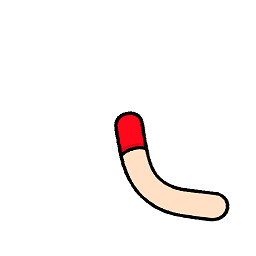
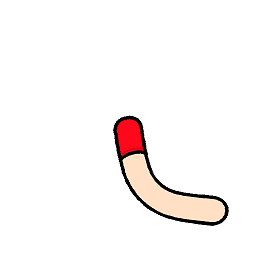
Smoothed out player shoulder locations

Changed region(s): [[0.4375, 0.4375, 0.9062, 0.9062]]

diff --git a/offworld/src/com/bitwaffle/offworld/entities/player/PlayerBodyAnimation.java b/offworld/src/com/bitwaffle/offworld/entities/player/PlayerBodyAnimation.java
@@ -4,52 +4,51 @@ import com.badlogic.gdx.math.Vector2;
 import com.bitwaffle.guts.graphics.animation.Animation;
 
 public class PlayerBodyAnimation extends Animation {
-	// TODO maybe only catch these on keyframes and then interpolate the values
 	/** 
 	 * Location of the right arm's shoulder on each frame,
 	 * in world coordinates. The location corresponds to the distance
 	 * from the middle of the player's body the shoulder is at.
 	 */
 	private static final float[][] rShoulderLocations = {
-			{-0.21301842f, 0.8287382f},
-			{-0.21301842f, 0.82005787f},
-			{-0.21301842f, 0.81137705f},
-			{-0.21301842f, 0.79401636f},
-			{-0.21301842f, 0.79401636f},
-			{-0.20433784f, 0.8026967f},
-			{-0.16961563f, 0.8287382f},
-			{-0.16961563f, 0.8287382f},
-			{-0.16961563f, 0.82005787f},
-			{-0.16961563f, 0.82005787f},
-			{-0.18697667f, 0.83741903f},
-			{-0.20433784f, 0.8287382f},
-			{-0.21301842f, 0.83741903f},
-			{-0.21301842f, 0.8287382f},
-			{-0.21301842f, 0.81137705f},
-			{-0.19565725f, 0.8026967f},
-			{-0.18697667f, 0.79401636f},
-			{-0.19565725f, 0.79401636f},
-			{-0.19565725f, 0.78533554f},
-			{-0.19565725f, 0.7679744f},
-			{-0.18697667f, 0.7766552f},
-			{-0.18697667f, 0.8026967f},
-			{-0.17829621f, 0.8026967f},
-			{-0.16961563f, 0.83741903f},
-			{-0.16961563f, 0.8460994f},
-			{-0.16961563f, 0.83741903f},
-			{-0.15225458f, 0.83741903f},
-			{-0.16093516f, 0.83741903f},
-			{-0.15225458f, 0.83741903f},
-			{-0.17829621f, 0.83741903f},
-			{-0.18697667f, 0.83741903f},
-			{-0.21301842f, 0.82005787f}	
+			{-0.22111511f, 0.7997613f}, // 0
+			{-0.21965f, 0.793903f},
+			{-0.218185f, 0.788045f},
+			{-0.21672f, 0.782187f},
+			{-0.21525574f, 0.7763281f}, // 4
+			{-0.206468f, 0.783651f},
+			{-0.197681f, 0.790974f},
+			{-0.188894f, 0.798297f},
+			{-0.18010712f, 0.80561924f}, // 8
+			{-0.190359f, 0.811478f},
+			{-0.200611f, 0.817336f},
+			{-0.210863f, 0.823194f},
+			{-0.22111511f, 0.829052f}, // 12
+			{-0.216722f, 0.82173f},
+			{-0.212328f, 0.814407f},
+			{-0.207934f, 0.807084f},
+			{-0.2035408f, 0.7997613f}, // 16
+			{-0.200612f, 0.792439f},
+			{-0.197683f, 0.785116f},
+			{-0.194754f, 0.777793f},
+			{-0.19182587f, 0.77047014f}, // 20
+			{-0.187432f, 0.789509f},
+			{-0.183039f, 0.808548f},
+			{-0.178645f, 0.827587f},
+			{-0.17425156f, 0.84662676f}, // 24
+			{-0.171322f, 0.843698f},
+			{-0.168392f, 0.840769f},
+			{-0.165462f, 0.83784f},
+			{-0.1625328f, 0.8349104f}, // 28
+			{-0.174249f, 0.829052f},
+			{-0.185966f, 0.823194f},
+			{-0.20940018f, 0.81147766f} // 31
 	};
 	
 	/** Offset of gun from right arm's shoulder */
 	private static final Vector2 gunOffset = new Vector2(0.85f, -0.5f);
 	
 	/** Offset of left arm from right arm's shoulder*/
-	private static final Vector2 lArmOffset = new Vector2(0.1f, -0.05f);
+	private static final Vector2 lArmOffset = new Vector2(0.02f, 0.04f);
 	
 	/**
 	 * @param animation Source animation

diff --git a/offworld/src/com/bitwaffle/offworld/entities/player/Player.java b/offworld/src/com/bitwaffle/offworld/entities/player/Player.java
@@ -51,7 +51,13 @@ public class Player extends BoxEntity implements FirearmHolder{
 	private boolean movingRight = false, facingRight = false;
 	
 	/** Animation for player's legs */
-	public PlayerBodyAnimation bodyAnimation;
+	protected PlayerBodyAnimation bodyAnimation;
+	
+	/** How fast the animation is played, depending on the player's linear velocity. Higher number means slower animation. */
+	private float animationSpeed = 10.0f;
+	
+	/** How fast the player has to be moving for the animation to be stepped */
+	private float minAnimationVelocity = 0.5f;
 	
 	/**
 	 * Noargs constructor ONLY to be used with serialization!!!
@@ -102,9 +108,8 @@ public class Player extends BoxEntity implements FirearmHolder{
 		// update animation
 		if(body != null){
 			Vector2 linVec = body.getLinearVelocity();
-			if((linVec.x > 0.5f || linVec.x < -0.5f)){
-				// FIXME should the animation speed be defined in the animation's XML?
-				float animationStep = timeStep * (linVec.x / 10.0f);
+			if((linVec.x > minAnimationVelocity || linVec.x < -minAnimationVelocity)){
+				float animationStep = timeStep * (linVec.x / animationSpeed);
 				if(!facingRight) animationStep = -animationStep;
 				bodyAnimation.update(animationStep);
 			}

diff --git a/offworld/src/com/bitwaffle/offworld/entities/player/PlayerRenderer.java b/offworld/src/com/bitwaffle/offworld/entities/player/PlayerRenderer.java
@@ -41,7 +41,10 @@ public class PlayerRenderer implements EntityRenderer {
 			renderer.modelview.rotate(0.0f, 0.0f, 1.0f, armAngle);
 			renderer.sendModelViewToShader();
 			Game.resources.textures.bindTexture("player-arm");
+			Gdx.gl20.glEnable(GL20.GL_BLEND);
+			Gdx.gl20.glBlendFunc(GL20.GL_SRC_ALPHA, GL20.GL_ONE_MINUS_SRC_ALPHA);
 			renderer.quad.render(SCALE, SCALE, facingRight, facingRight);
+			Gdx.gl20.glDisable(GL20.GL_BLEND);
 			
 			// draw body
 			renderer.modelview.rotate(0.0f, 0.0f, 1.0f, -armAngle);
@@ -60,7 +63,10 @@ public class PlayerRenderer implements EntityRenderer {
 			renderer.modelview.translate(-gunOffset.x, facingRight ? -gunOffset.y : gunOffset.y, 0.0f);
 			renderer.sendModelViewToShader();
 			Game.resources.textures.bindTexture("player-arm");
+			Gdx.gl20.glEnable(GL20.GL_BLEND);
+			Gdx.gl20.glBlendFunc(GL20.GL_SRC_ALPHA, GL20.GL_ONE_MINUS_SRC_ALPHA);
 			renderer.quad.render(SCALE, SCALE, facingRight, facingRight);
+			Gdx.gl20.glDisable(GL20.GL_BLEND);
 		}
 	}
 	
